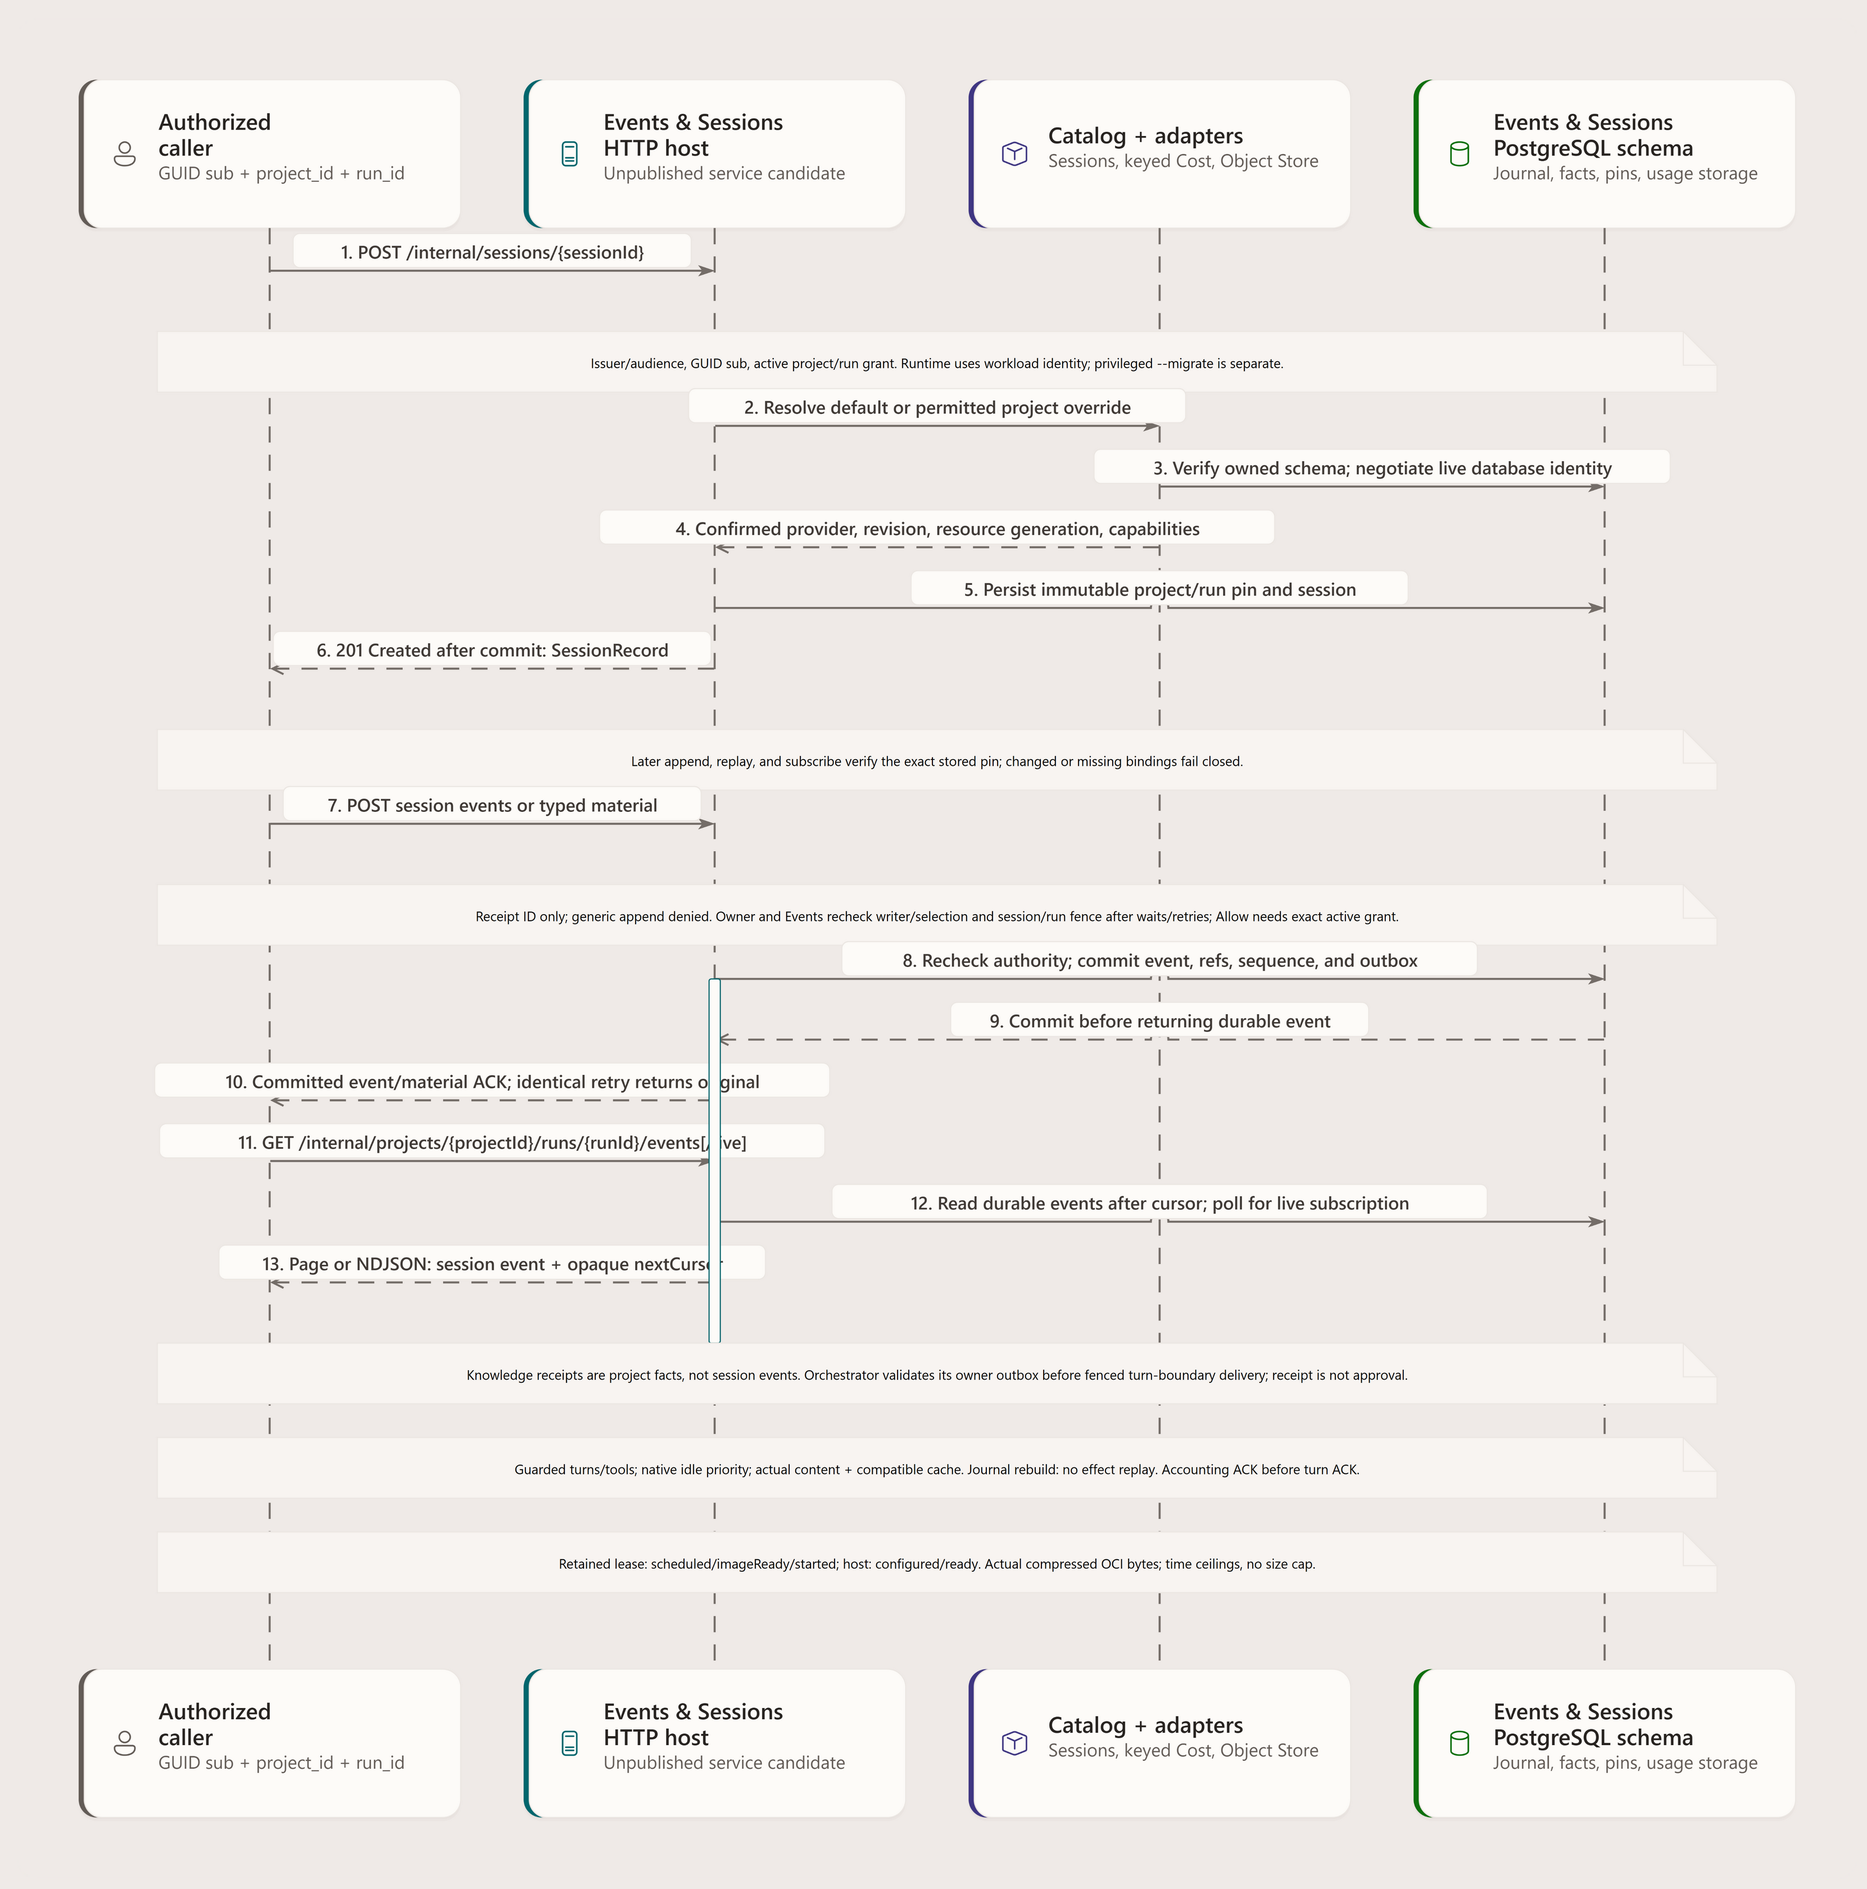
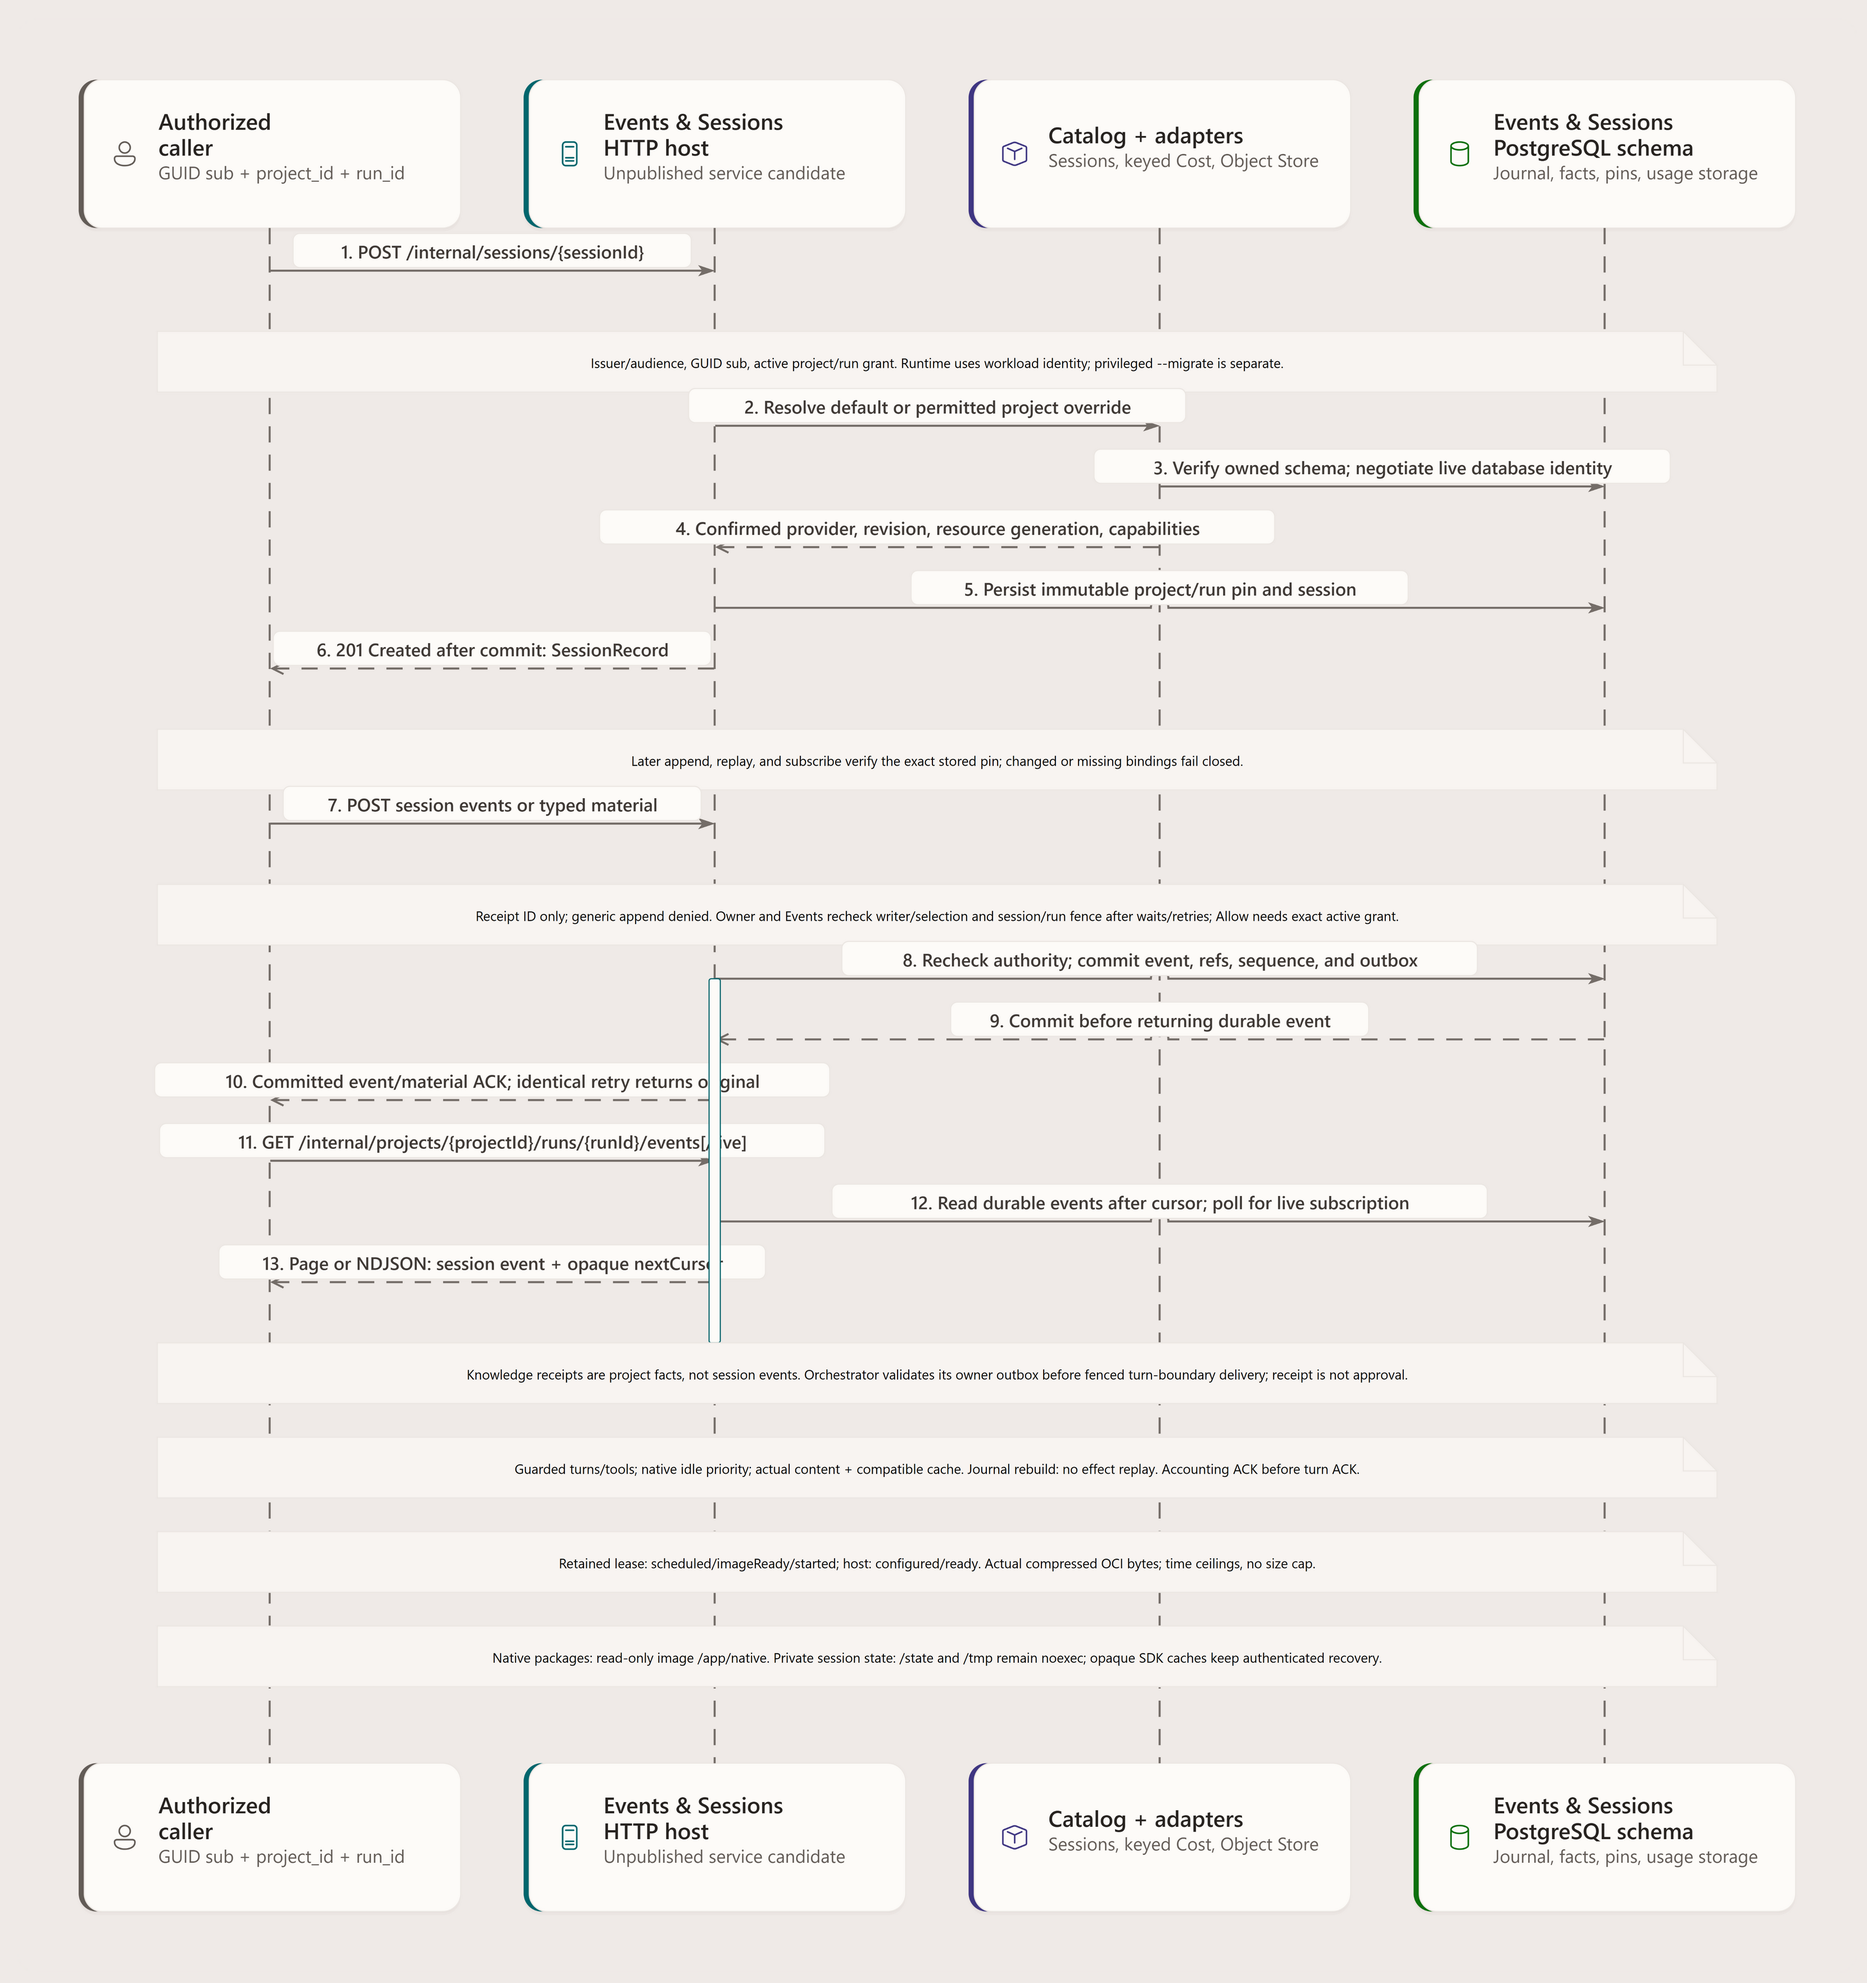
fix(v1): load native AgentHost packages from read-only image
Copilot-Session: 0326634c-0134-4e06-8479-730bfee4390e

diff --git a/tests/Agentweaver.Identity.Broker.Tests/NativeRuntimeManifestTests.cs b/tests/Agentweaver.Identity.Broker.Tests/NativeRuntimeManifestTests.cs
@@ -2,6 +2,7 @@ extern alias AgentHostService;
 
 using System.Security.Cryptography;
 using System.Text.Json;
+using Agentweaver.AgentRuntime;
 using AgentHostService::Agentweaver.AgentHost;
 using Xunit;
 
@@ -16,6 +17,9 @@ public sealed class NativeRuntimeManifestTests
     [InlineData("archive")]
     [InlineData("checksum")]
     [InlineData("missing")]
+    [InlineData("index")]
+    [InlineData("app")]
+    [InlineData("addon")]
     public void ImageOwnedManifestRequiresPinnedSdkCompatibleRuntimeAndVerifiedExecutable(string change)
     {
         var directory = Path.Combine(Path.GetTempPath(), "agenthost-manifest-" + Guid.NewGuid().ToString("N"));
@@ -24,6 +28,10 @@ public sealed class NativeRuntimeManifestTests
         {
             var content = "controlled native executable bytes"u8.ToArray();
             File.WriteAllBytes(Path.Combine(native, "copilot"), content);
+            File.WriteAllBytes(Path.Combine(native, "index.js"), content);
+            File.WriteAllBytes(Path.Combine(native, "app.js"), content);
+            var prebuilds = Directory.CreateDirectory(Path.Combine(native, "prebuilds", "linux-x64")).FullName;
+            File.WriteAllBytes(Path.Combine(prebuilds, "runtime.node"), content);
             File.WriteAllText(Path.Combine(native, "copilot.sha256"),
                 change == "checksum" ? new string('0', 64) : Convert.ToHexStringLower(SHA256.HashData(content)));
             var manifest = new NativeRuntimeManifest(
@@ -34,6 +42,12 @@ public sealed class NativeRuntimeManifestTests
                 JsonSerializer.Serialize(manifest, new JsonSerializerOptions(JsonSerializerDefaults.Web)));
             if (change == "missing")
                 File.Delete(Path.Combine(native, "copilot"));
+            if (change == "index")
+                File.Delete(Path.Combine(native, "index.js"));
+            if (change == "app")
+                File.Delete(Path.Combine(native, "app.js"));
+            if (change == "addon")
+                File.WriteAllBytes(Path.Combine(prebuilds, "runtime.node"), []);
             if (change == "valid")
             {
                 var verified = NativeRuntimeManifest.ReadAndVerify(directory);
@@ -47,5 +61,35 @@ public sealed class NativeRuntimeManifestTests
         {
             Directory.Delete(directory, recursive: true);
         }
+    }
+
+    [Theory]
+    [InlineData("valid")]
+    [InlineData("missing")]
+    [InlineData("private-state")]
+    [InlineData("ambient-token")]
+    public void PrivateStdioRuntimeRequiresOnlyItsImageOwnedDistribution(string change)
+    {
+        var imageDirectory = Path.Combine(Path.GetTempPath(), "agenthost-image");
+        var privateState = Path.Combine(Path.GetTempPath(), "agenthost-private-state");
+        var executable = Path.Combine(imageDirectory, "native", "copilot");
+        var connection = NativeRuntimeManifest.Connection(executable, privateState);
+        Assert.Equal(Path.Combine(imageDirectory, "native"), connection.Environment!["COPILOT_CLI_DIST_DIR"]);
+        Assert.Equal(privateState, connection.Environment["HOME"]);
+        Assert.Equal("/tmp", connection.Environment["TMPDIR"]);
+        Assert.Equal(["--no-auto-update"], connection.Args);
+        var environment = new Dictionary<string, string>(connection.Environment);
+        connection.Environment = environment;
+        if (change == "missing")
+            environment.Remove("COPILOT_CLI_DIST_DIR");
+        if (change == "private-state")
+            environment["COPILOT_CLI_DIST_DIR"] = privateState;
+        if (change == "ambient-token")
+            environment["GH_TOKEN"] = "controlled-ambient-token";
+        if (change == "valid")
+            _ = new RuntimeCopilotSessionFactory(connection, privateState, new Dictionary<string, RuntimeModelBinding>());
+        else
+            Assert.Throws<ArgumentException>(() =>
+                new RuntimeCopilotSessionFactory(connection, privateState, new Dictionary<string, RuntimeModelBinding>()));
     }
 }

diff --git a/services/agenthost/Agentweaver.AgentHost/NativeRuntimeManifest.cs b/services/agenthost/Agentweaver.AgentHost/NativeRuntimeManifest.cs
@@ -16,7 +16,9 @@ public sealed record NativeRuntimeManifest(string SdkVersion, string RuntimeVers
             ["PATH"] = "/usr/local/bin:/usr/bin:/bin",
             ["HOME"] = privateStateDirectory,
             ["LANG"] = "C.UTF-8",
-            ["TMPDIR"] = "/tmp"
+            ["TMPDIR"] = "/tmp",
+            ["COPILOT_CLI_DIST_DIR"] = Path.GetDirectoryName(executable)
+                ?? throw new ArgumentException("The image-owned runtime requires an absolute executable path.", nameof(executable))
         };
         return connection;
     }
@@ -41,6 +43,12 @@ public sealed record NativeRuntimeManifest(string SdkVersion, string RuntimeVers
         var checksum = Path.Combine(directory, "native", "copilot.sha256");
         if (!File.Exists(executable) || !File.Exists(checksum))
             throw new InvalidOperationException("The verified native runtime is not part of this image.");
+        foreach (var relative in new[] { "index.js", "app.js", "prebuilds/linux-x64/runtime.node" })
+        {
+            var file = new FileInfo(Path.Combine(directory, "native", relative));
+            if (!file.Exists || file.Length == 0)
+                throw new InvalidOperationException("The pinned native distribution is incomplete.");
+        }
         using var content = File.OpenRead(executable);
         if (File.ReadAllText(checksum).Trim() != Convert.ToHexStringLower(SHA256.HashData(content)))
             throw new InvalidOperationException("The image-owned native runtime checksum does not match.");

diff --git a/packages/Agentweaver.AgentRuntime/RuntimeCopilotSessionFactory.cs b/packages/Agentweaver.AgentRuntime/RuntimeCopilotSessionFactory.cs
@@ -38,8 +38,11 @@ public sealed class RuntimeCopilotSessionFactory
         if (approvedConnection is StdioRuntimeConnection process &&
             (!Path.IsPathFullyQualified(process.Path!) ||
                 process.Args is { Count: > 0 } && !process.Args.SequenceEqual(["--no-auto-update"]) ||
+                !process.Environment!.TryGetValue("COPILOT_CLI_DIST_DIR", out var distribution) ||
+                distribution != Path.GetDirectoryName(process.Path) ||
                 process.Environment!.Keys.Any(key =>
-                    key is not ("PATH" or "HOME" or "LANG" or "TMPDIR" or "SSL_CERT_FILE" or "SSL_CERT_DIR"))))
+                    key is not ("PATH" or "HOME" or "LANG" or "TMPDIR" or "SSL_CERT_FILE" or "SSL_CERT_DIR" or
+                        "COPILOT_CLI_DIST_DIR"))))
             throw new ArgumentException("The image-owned stdio runtime requires an absolute executable and credential-free environment.");
         foreach (var (reference, model) in approvedModelBindings)
         {

diff --git a/services/agenthost/Agentweaver.AgentHost/Program.cs b/services/agenthost/Agentweaver.AgentHost/Program.cs
@@ -22,9 +22,13 @@ if (args.SequenceEqual(["--verify-native-runtime"]))
     var status = await client.GetStatusAsync(deadline.Token);
     if (status.Version != verified.RuntimeVersion)
         throw new InvalidOperationException("The native SDK status does not match the image-owned runtime.");
+    if (Directory.Exists("/state/.cache/copilot/pkg"))
+        throw new InvalidOperationException("The native runtime extracted executable packages into private session state.");
     Console.WriteLine(System.Text.Json.JsonSerializer.Serialize(new
     {
-        sdkVersion = "1.0.11", runtimeVersion = status.Version, status.ProtocolVersion
+        sdkVersion = "1.0.11", runtimeVersion = status.Version, status.ProtocolVersion,
+        nativeDistribution = Path.GetDirectoryName(verified.ExecutablePath),
+        privatePackageCacheAbsent = true
     }));
     return;
 }

diff --git a/docs/architecture/agenthost.md b/docs/architecture/agenthost.md
@@ -89,6 +89,12 @@ The Dockerfile pins the build and runtime base digests and verifies the native a
 The final image runs as UID/GID `1654:1654` on `linux/amd64`.
 It uses explicit HTTPS certificate configuration and a read-only root filesystem.
 Private state and temporary files are separate from the attached workspace.
+The pinned CLI loads its complete distribution from the image-owned `/app/native` directory.
+The host sets `COPILOT_CLI_DIST_DIR` to the verified executable's directory, never a caller-selected path.
+Startup rejects a missing distribution index, application module, or native runtime addon.
+The CLI does not extract executable packages into private session state.
+Private state and temporary mounts need no executable permission.
+Opaque SDK session caches remain private and use the existing authenticated recovery path.
 No registry credential or runtime model credential enters the image.
 
 The selected `agent-sandbox` options can include the typed trusted `AgentHost` launch profile.
@@ -118,7 +124,9 @@ It is not an uncompressed filesystem estimate or a hard image-size ceiling.
 
 CI then compares the loaded image config digest with the receipt.
 It runs `--verify-native-runtime` without network access, writes, credentials, or a model turn.
-The native SDK status must report runtime 1.0.79 and protocol 3.
+The native SDK status must report runtime 1.0.79, protocol 3, and the image-owned distribution path.
+Both image checks use explicit `noexec,nosuid,nodev` state and temporary mounts.
+They reject any extracted native package cache in private state.
 CI separately runs the same image as UID/GID 1000 with an owner-writable `0755` workspace and private `0700` mounts.
 It checks actual create, write, rename, read, and delete operations without network or a model call.
 Fixture configuration and TLS files use mode `0440`.

diff --git a/docs/guide/testing.md b/docs/guide/testing.md
@@ -23,7 +23,7 @@ The v1 tests use in-memory providers, fake Azure SDK transports, and disposable 
 | Telemetry tests | In-process OpenTelemetry setup and Azure Monitor exporter behavior through an injected transport. | Azure Monitor ingestion. |
 | Azure tooling tests | Target, source, digest, command, and acceptance guards through fake `az` and `git` executors. | A live Azure call or provisioned resource. |
 | Foundation Probe tests | Receipt and token checks, provider pins, exact-version Key Vault read, owned Blob cleanup, PostgreSQL effects, and trace evidence. | Azure resource access or Identity broker redemption. |
-| AgentHost tests | Actual native SDK transport, authenticated configure/refresh/A2A, exact replay, current owner/source rejection, guarded effects, turn content, idle-boundary priority, accounting acknowledgment, cache recovery, and exact startup-time ceilings. CI separately measures the compressed amd64 OCI image and starts its pinned runtime without network or a model call. | Automatic scheduling, deployed TLS/Sandbox placement, live OAuth/entitlement, paid model execution, or publication. |
+| AgentHost tests | Actual native SDK transport, authenticated configure/refresh/A2A, exact replay, current owner/source rejection, guarded effects, turn content, idle-boundary priority, accounting acknowledgment, cache recovery, and exact startup-time ceilings. CI separately measures the compressed amd64 OCI image and starts its image-owned pinned runtime with non-executable private mounts, without network or a model call. | Automatic scheduling, deployed TLS/Sandbox placement, live OAuth/entitlement, paid model execution, or publication. |
 
 Source Control regressions cover GitHub's actual PR-list and check-runs response shapes,
 ruleset and classic branch-protection requirements, and repository issue availability.

diff --git a/.changeset/v1-agenthost-image-owned-native-distribution.md b/.changeset/v1-agenthost-image-owned-native-distribution.md
@@ -1,0 +1,8 @@
+---
+"Agentweaver.AgentHost": patch
+"Agentweaver.AgentRuntime": patch
+---
+
+Load the pinned native CLI distribution from its read-only image directory instead of extracting executable addons into private state.
+Require the exact image-owned distribution path and complete native package.
+Verify startup under both supported user identities with non-executable private mounts, without changing SDK session recovery or credential boundaries.
